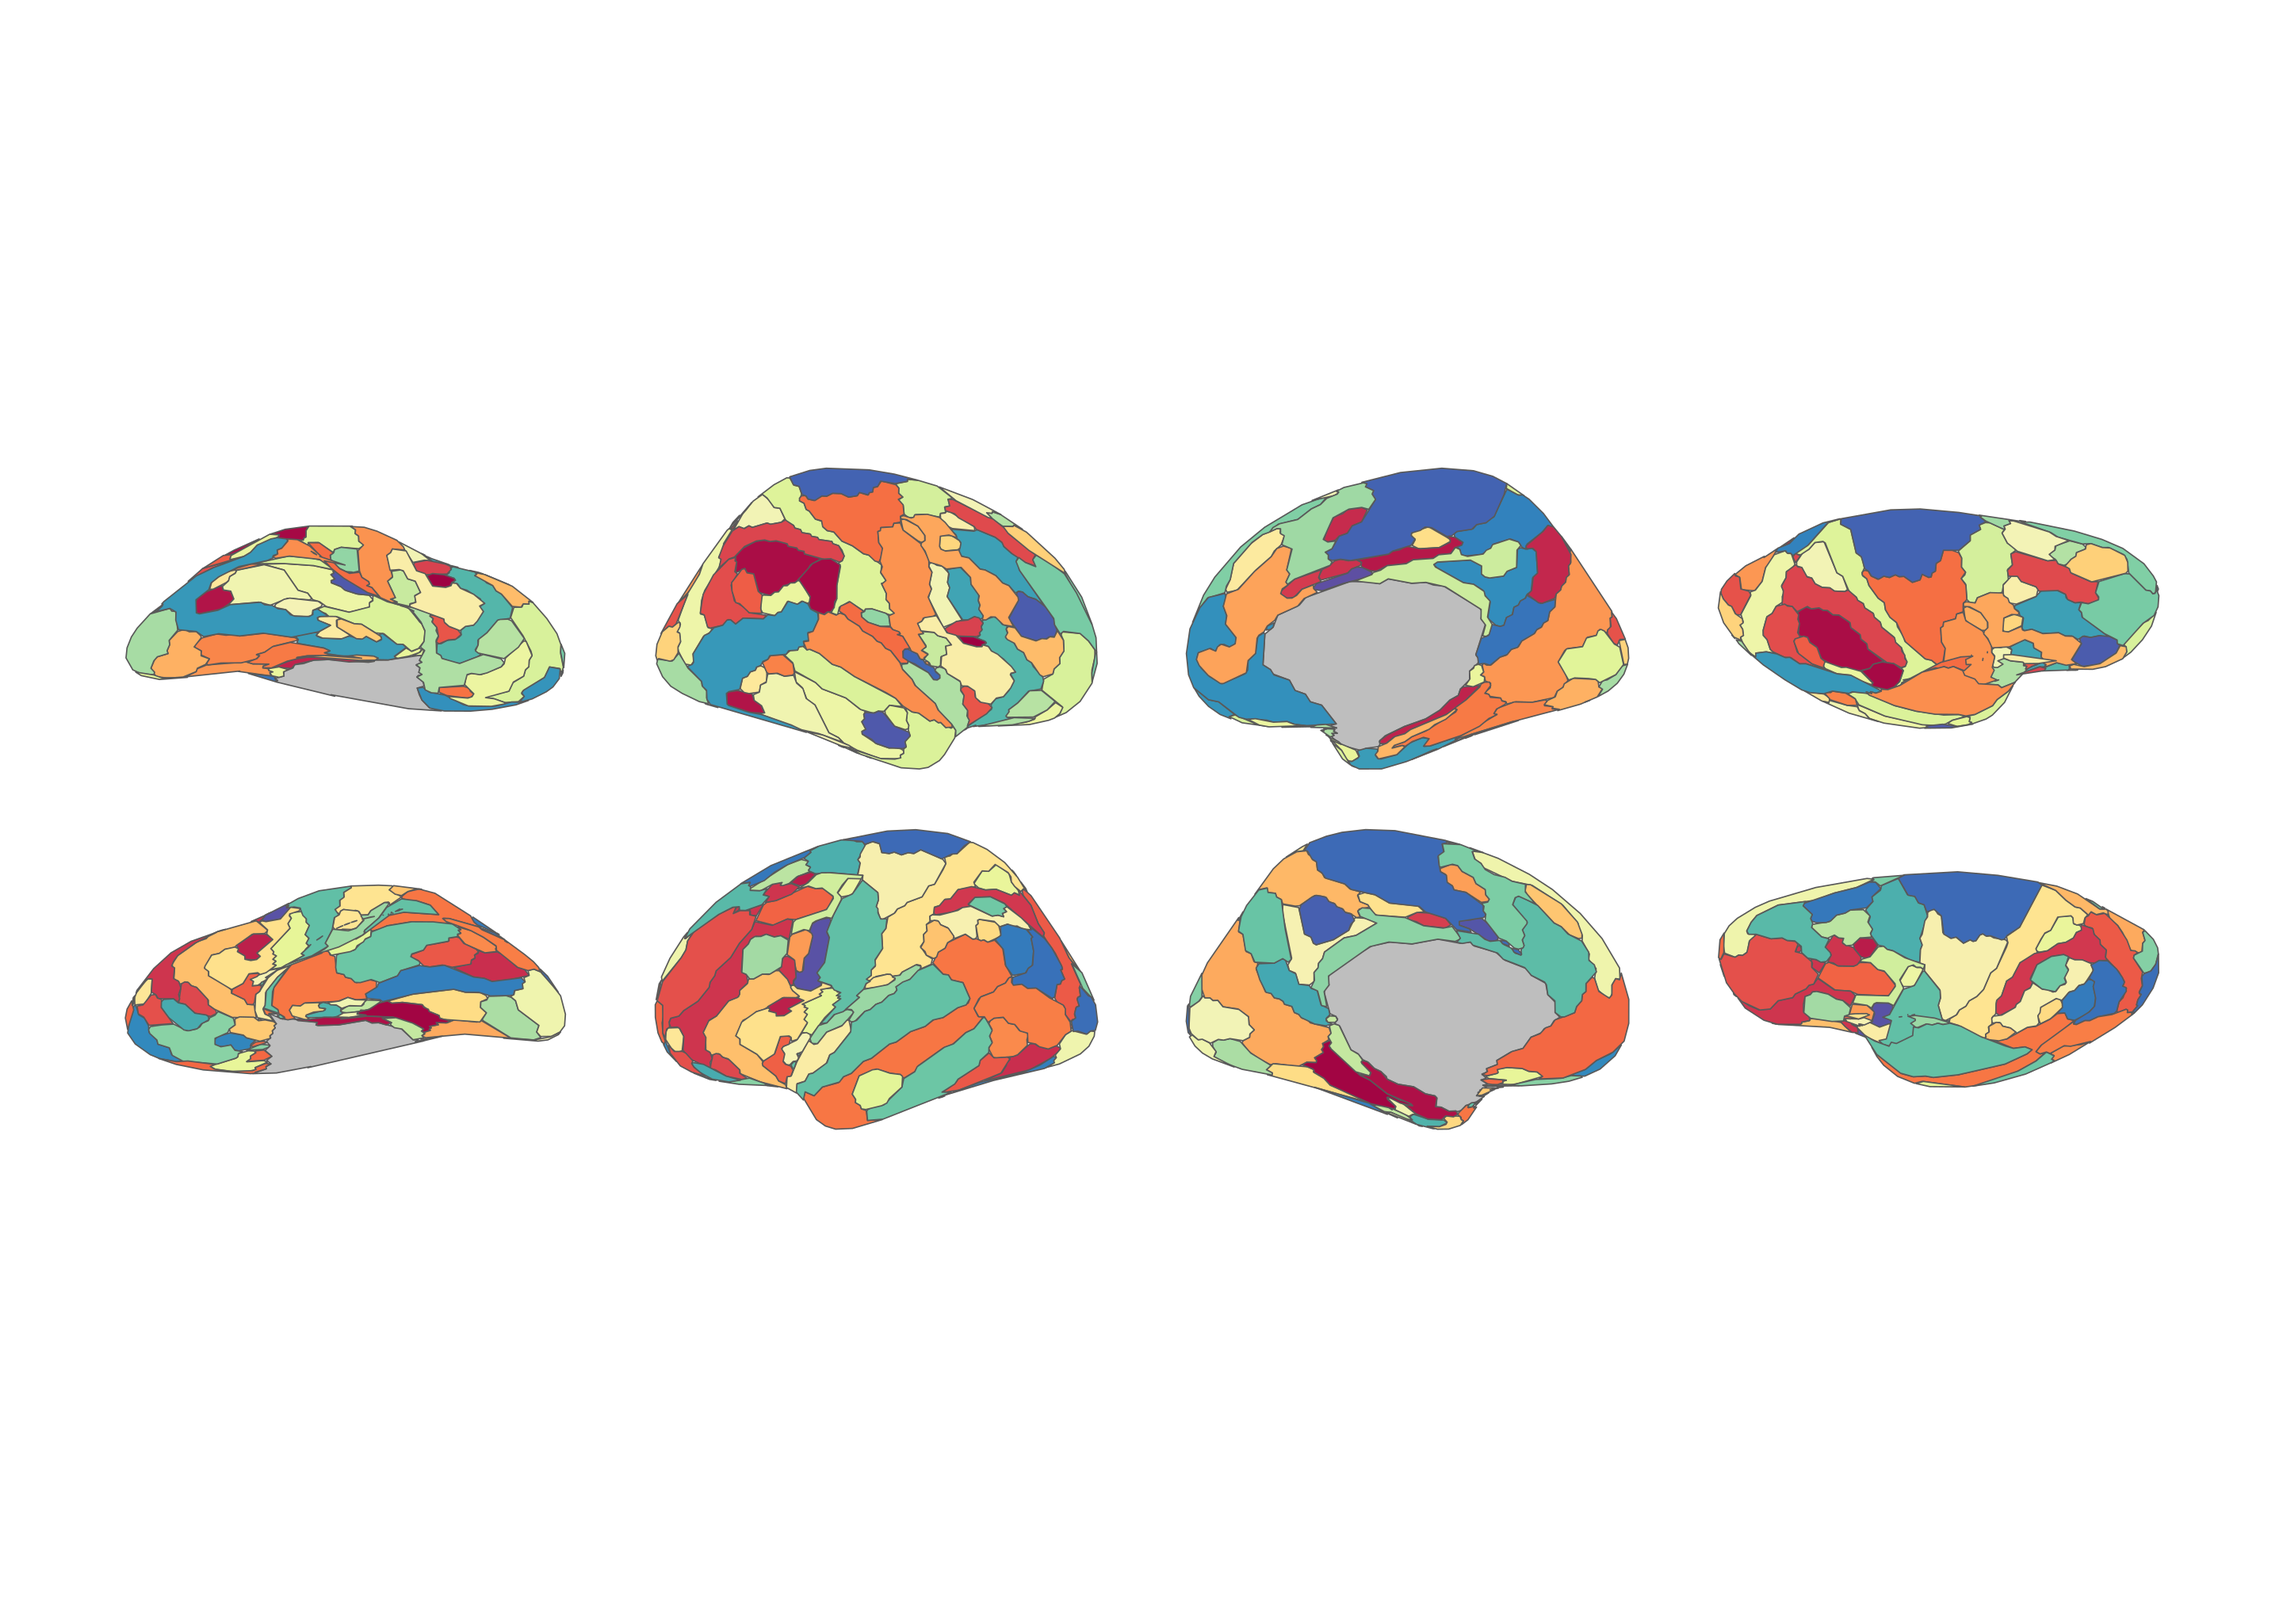
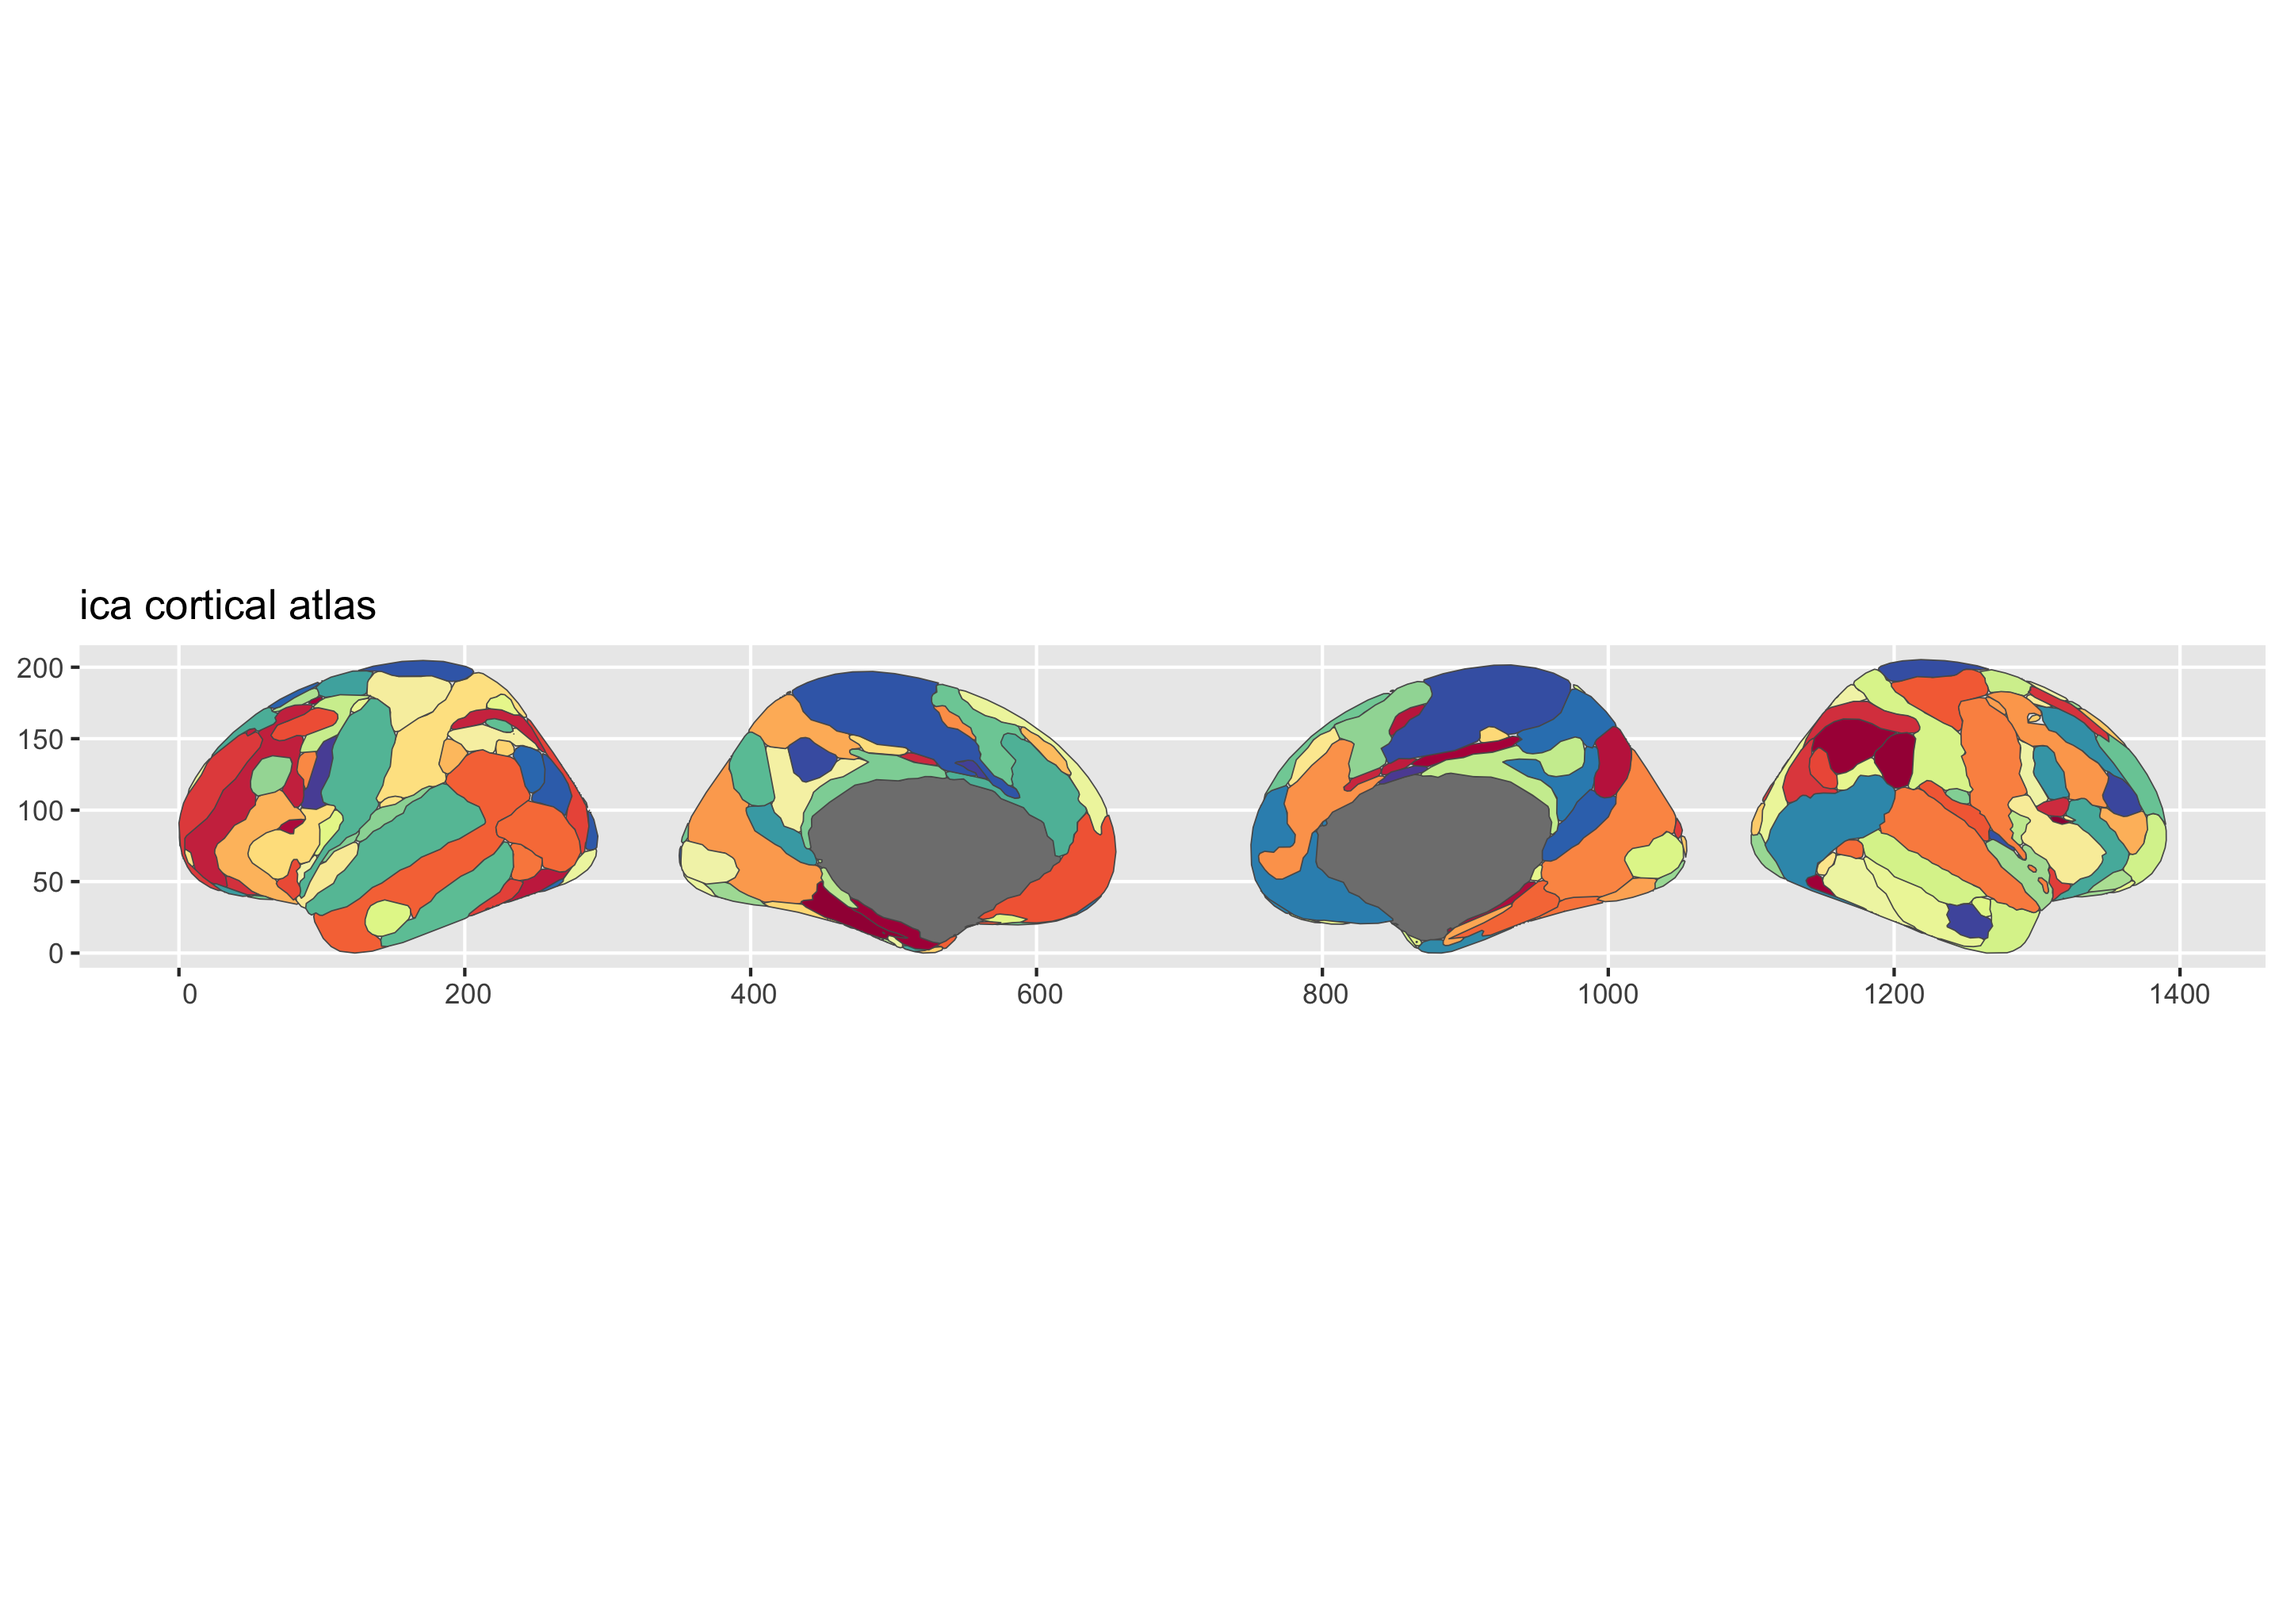
Simplify README plots to use plot() and re-render

Changed region(s): [[0.0, 0.2812, 1.0, 0.7188]]

diff --git a/README.md b/README.md
@@ -42,17 +42,8 @@ pak::pak("ggsegverse/ggsegIca")
 ``` r
 library(ggseg)
 library(ggsegIca)
-library(ggplot2)
 
-ggplot() +
-  geom_brain(
-    atlas = ica(),
-    mapping = aes(fill = label),
-    position = position_brain(hemi ~ view),
-    show.legend = FALSE
-  ) +
-  scale_fill_manual(values = ica()$palette, na.value = "grey") +
-  theme_void()
+plot(ica())
 ```
 
 <img src="man/figures/README-ica-1.png" style="width:100.0%" />
